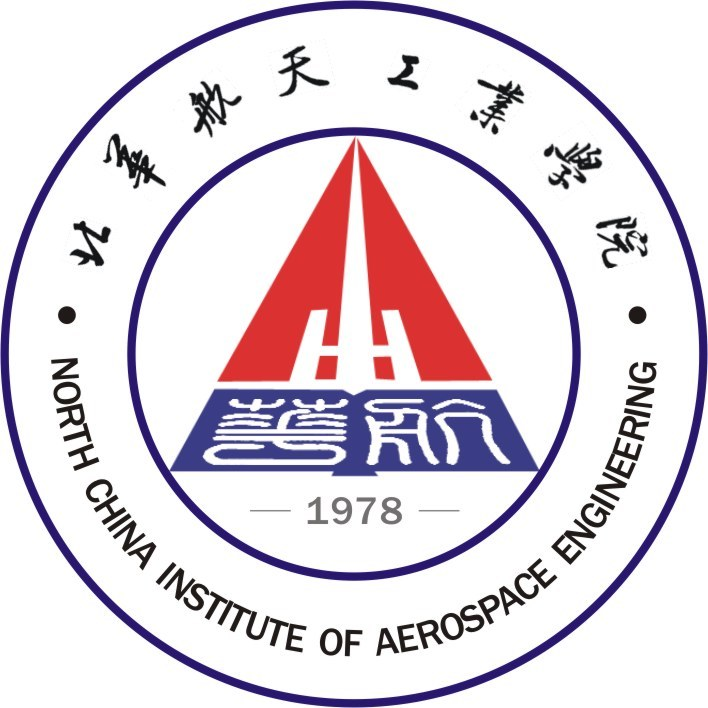
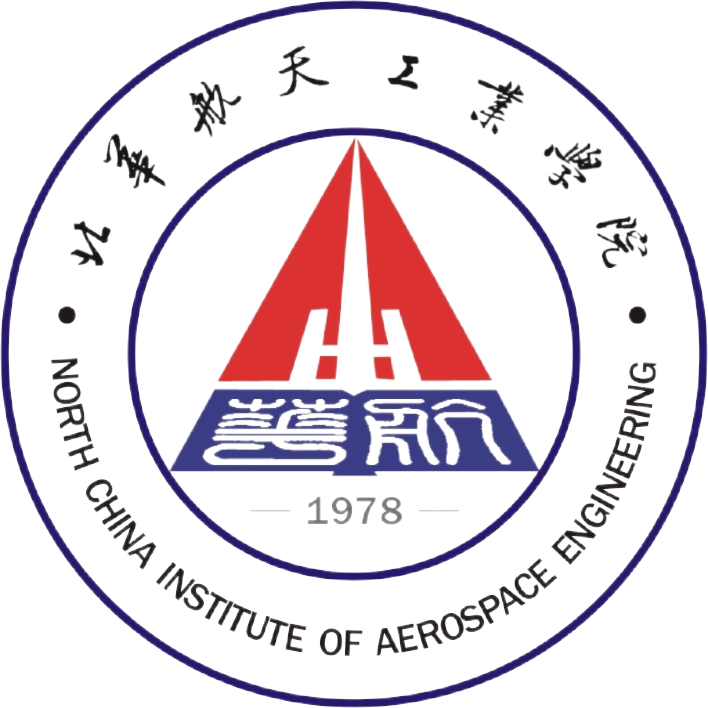
导航条整完了。

diff --git a/templates/base.html b/templates/base.html
@@ -10,11 +10,29 @@
     <link rel="stylesheet" href="../static/bootstrap-4.6.2-dist/css/bootstrap.css">
     <link rel="stylesheet" href="../static/iconfont/iconfont.css">
     <link rel="stylesheet" href="../static/css/font.css">
-    <title>Title</title>
 </head>
 <body>
-    <div id="root" @keydown.esc="change_window('none')">
+    <div id="root" @keydown.esc="change_window('none')" style=" user-select: none;">
+        <div class="fixed-top">
+            <nav class="navbar navbar-dark bg-dark" style="padding-left: 1.5vw;padding-right: 2.3vw">
+                <div class="d-flex flex-row align-items-center" style="gap: 1vw;">
+                    <div style="height:7vh;width: 18vw;margin-top: -3vh">
+                        <img src="((School_logo))" class="img-fluid" alt="...">
+                    </div>
+                    <div style="margin-bottom: -2vh;">
 
+                    </div>
+                </div>
+                <div style="display: flex;flex-direction:row;right: 0;align-items: center;gap: 2vw">
+                    <div id="USER_INFORMATION">
+                        <a class="btn btn-primary btn-lg" href="#" @click.prevent="change_window('login')">登录</a>
+                    </div>
+                    <div>
+                        <a href="">注销</a>
+                    </div>
+                </div>
+            </nav>
+        </div>
         <div class="out_window shadow-lg p-3 mb-5 bg-white rounded" id="tanchuang">
             <div class="close_window"><a href="javascript:void(0)" @click.prevent="change_window('none')">[esc]关闭窗口</a></div>
             <div class="alert alert-danger" role="alert" style="position: absolute;display: none;right: 0;top: 0" id="Error_window"></div>
@@ -163,9 +181,11 @@
                 </div>
             </div>
         </div>
-        {% block body %}
+        <div style="overflow-y: scroll;height: 96vh">
+            {% block body %}
 
-        {% endblock %}
+            {% endblock %}
+        </div>
     </div>
 <script type="text/javascript">
 const vm = new Vue({
@@ -430,6 +450,8 @@ const vm = new Vue({
             }else{
                 vm.alert_window(`密码不能为空，最好大于6位`,'Error_window')
             }
+        },
+        change_user_img(){
         },
         to_login(){
             let Password=$(`#Password`).val()

diff --git a/templates/index.html b/templates/index.html
@@ -1,13 +1,15 @@
-{% extends 'base.html' %}
+{% extends "base.html" %}
 {% block title %}
     标题
 {% endblock %}
 {% block body%}
     <div class="jumbotron">
         <h1 class="display-4">欢迎使用((System_name))</h1>
-        <p class="lead">本系统由flask,Vue,Bootstrap完成</p>
+        <p class="lead">本系统由flask,Vue,Bootstrap完成，该项目隶属于北华航天工业学院</p>
+        <p class="lead"></p>
         <hr class="my-4">
+        <p>建议登陆后使用更佳</p>
         <a class="btn btn-primary btn-lg" href="#" @click.prevent="change_window('login')">登录</a>
     </div>
-    <button @click="change_window('register3')">直达</button>
+    <div style="height: 300vh"></div>
 {% endblock %}

diff --git a/app.py b/app.py
@@ -3,7 +3,8 @@ from flask_sqlalchemy import SQLAlchemy
 from flask import Flask, render_template, request, session
 from config import Config
 from flask_migrate import Migrate
-from exts import mail, System_name, db
+from exts import mail, db
+from Global_config import System_name,System_logo
 
 from apps.user import bp as user_bp
 
@@ -26,6 +27,6 @@ def index():
 
 @app.context_processor
 def my_context_processor():
-    return {"System_name": System_name}
+    return {"System_name": System_name,"School_logo":System_logo}
 
 

diff --git a/apps/user.py b/apps/user.py
@@ -2,7 +2,7 @@ from flask import Blueprint, render_template, request, session
 from smtplib import SMTPServerDisconnected
 from werkzeug.security import generate_password_hash, check_password_hash
 from bll import create_captcha
-from exts import System_name, db
+from exts import db
 from Mail import send_captcha
 from SQL_Defence import SQL_defend
 from Model import UserModel

diff --git a/exts.py b/exts.py
@@ -2,7 +2,5 @@ from flask_mail import Mail, Message
 from flask_sqlalchemy import SQLAlchemy
 
 mail = Mail()
-System_name = '艺源汽车服务中心管理系统'
+
 db = SQLAlchemy()
-
-

diff --git a/Global_config.py b/Global_config.py
@@ -1,0 +1,2 @@
+System_logo = "../static/img/logo.png"
+System_name = '艺源汽车服务中心管理系统'

diff --git a/config.py b/config.py
@@ -17,3 +17,4 @@ class Config:
     PERMANENT_SESSION_LIFETIME = timedelta(hours=1)
 
 
+
